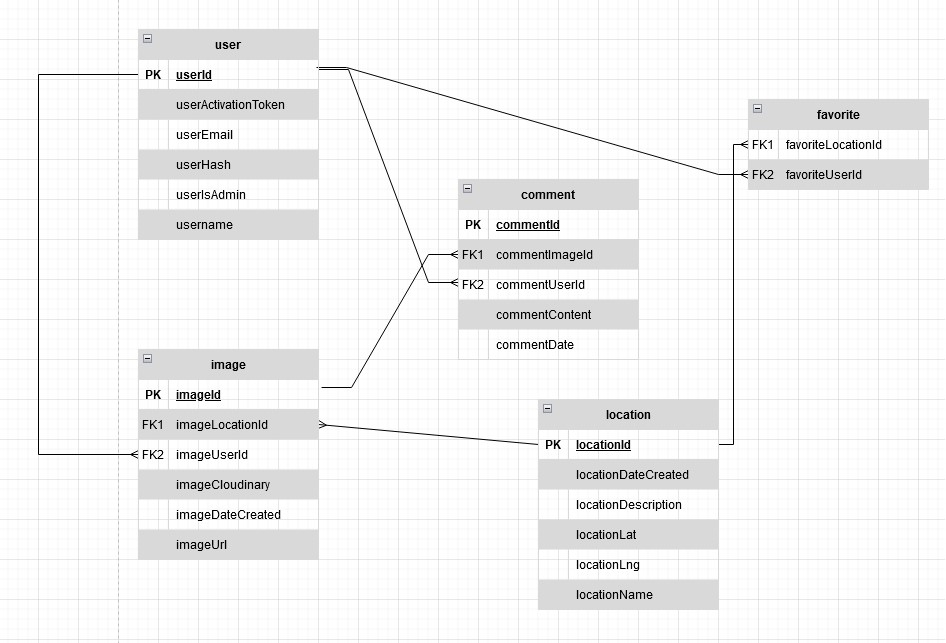
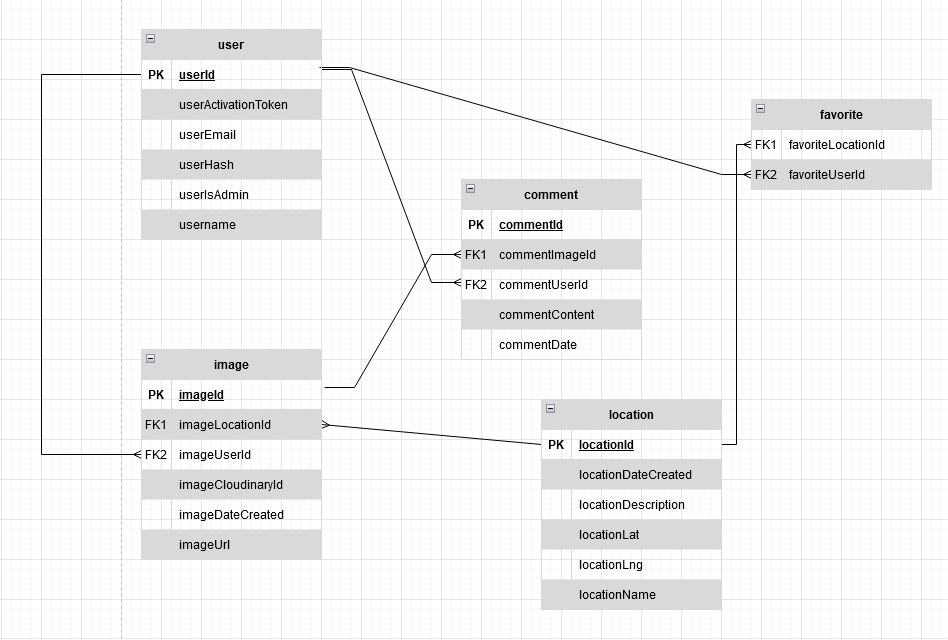
added margin to erd image.

diff --git a/erd-model/conceptual-model-and-erd.html b/erd-model/conceptual-model-and-erd.html
@@ -65,7 +65,7 @@
 
 <div class="container-erd-model">
 
-    <img src="wildlife-erd-model.png" alt="ERD">
+    <img src="wildlife-erd-model.jpg" alt="ERD">
 </div>
 
 <body>

diff --git a/erd-model/style.css b/erd-model/style.css
@@ -30,3 +30,7 @@ h1 {
     background-color: #989898;
     text-align: center;
 }
+
+img {
+    margin: 25px;
+}
